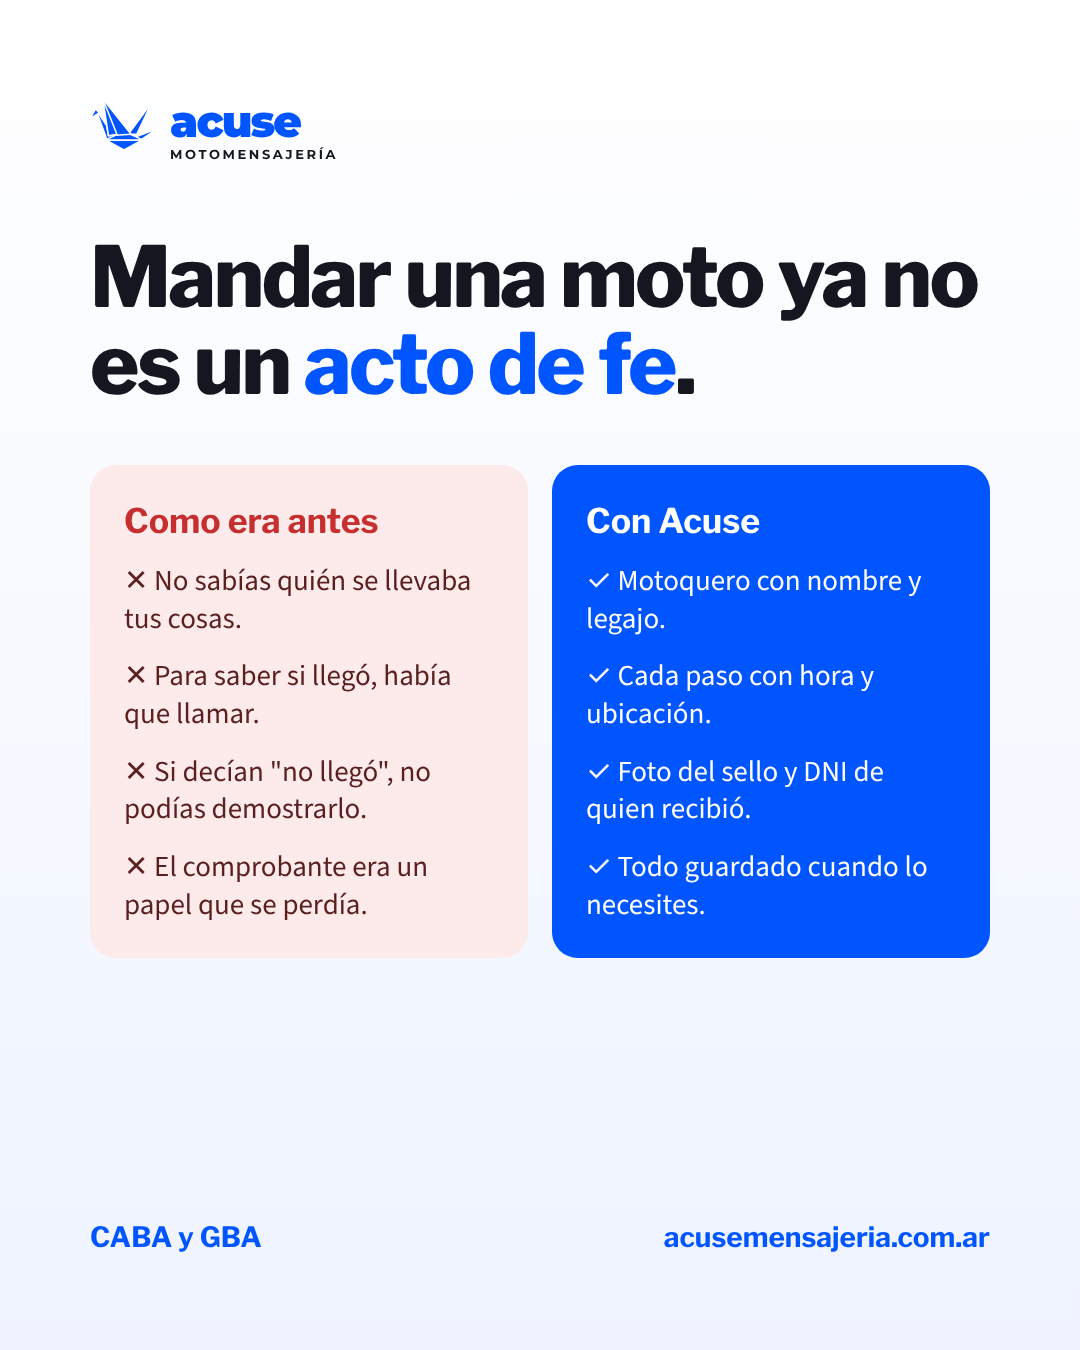
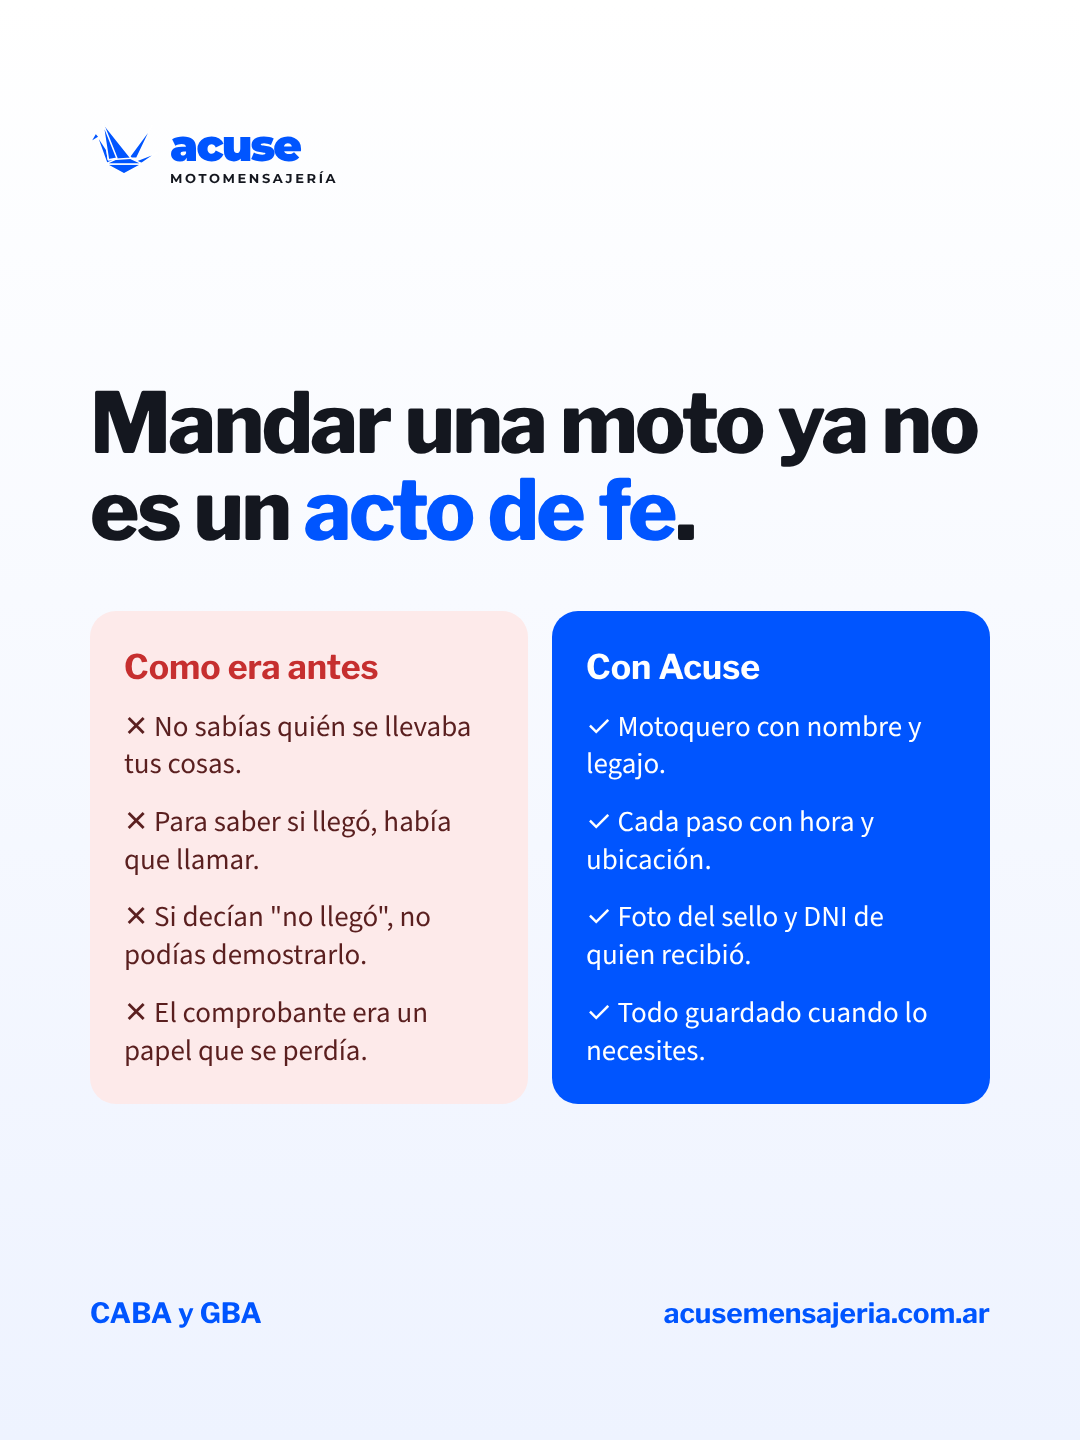
Acuse IG: posts en 3:4 (1080x1440) para que no se corten en la grilla
Claude-Session: https://claude.ai/code/session_014dZQpsA43e34kKAXYPamby

diff --git a/prospectos/acuse-mensajeria/instagram/posts.html b/prospectos/acuse-mensajeria/instagram/posts.html
@@ -4,7 +4,7 @@
 :root{--blue:#0055FF;--ink:#14171F;--muted:#545A66;--line:#E2E5EB;--ok:#12875A;--ok-soft:#E1F4EA;--corp:#0B1F4D;--gold:#C9A961;--env:#00A8F0;--sun:#FFC21A}
 *{margin:0;box-sizing:border-box}
 body{background:#ccc;font-family:"Source Sans 3",sans-serif;color:var(--ink)}
-.p{position:relative;width:1080px;height:1350px;overflow:hidden;padding:96px 90px;display:flex;flex-direction:column}
+.p{position:relative;width:1080px;height:1440px;overflow:hidden;padding:120px 90px 110px;display:flex;flex-direction:column}
 .blue{background:radial-gradient(120% 70% at 50% 0%,#1F6DFF,#0055FF 50%,#0041C7);color:#fff}
 .light{background:linear-gradient(180deg,#fff,#EEF3FF)}
 .corp{background:var(--corp);color:#fff}
@@ -52,6 +52,7 @@ em{font-style:normal}
 .env .list i{background:var(--sun)}.env .list svg{stroke:#3A2A00}
 .disc{font-size:20px;opacity:.6;margin-top:28px;line-height:1.3}
 .pill{display:inline-block;padding:10px 24px;border-radius:999px;font-family:"Libre Franklin";font-weight:800;font-size:30px}
+.p>.marca+*{margin-top:auto !important}
 .wm{position:absolute;opacity:.07;pointer-events:none}
 </style></head><body>
 <svg width="0" height="0" style="position:absolute"><symbol id="g" viewBox="0 0 48 48"><polygon points="27,27 44,4 33,27"/><polygon points="36,31 47.5,23 32,29"/><polygon points="12,31 4,9 17,29"/><polygon points="4,9 0,16 6.5,12"/><polygon points="11,31 37,31 24,38"/><polygon points="11,31 24,25 37,31"/><polygon points="13,28 9,2 29,27"/><polygon points="13,28 9,2 19,27"/></symbol></svg>

diff --git a/prospectos/acuse-mensajeria/instagram/textos-instagram.md b/prospectos/acuse-mensajeria/instagram/textos-instagram.md
@@ -31,7 +31,7 @@ Subí cada portada como historia, guardala en una destacada y elegila como tapa.
 
 ## Publicaciones (subir en este orden: 1 primero, 6 último)
 
-Instagram muestra lo último arriba, así que el post 1 (lanzamiento) queda abajo a la derecha, como en `preview-perfil.png`.
+Formato 1080×1440 (3:4), el que usa hoy la grilla de Instagram. Instagram muestra lo último arriba, así que el post 1 (lanzamiento) queda abajo a la derecha, como en `preview-perfil.png`.
 
 ### 1 · post-01-lanzamiento.png
 Ahora sí, es seguro pedir una moto. 🛵
